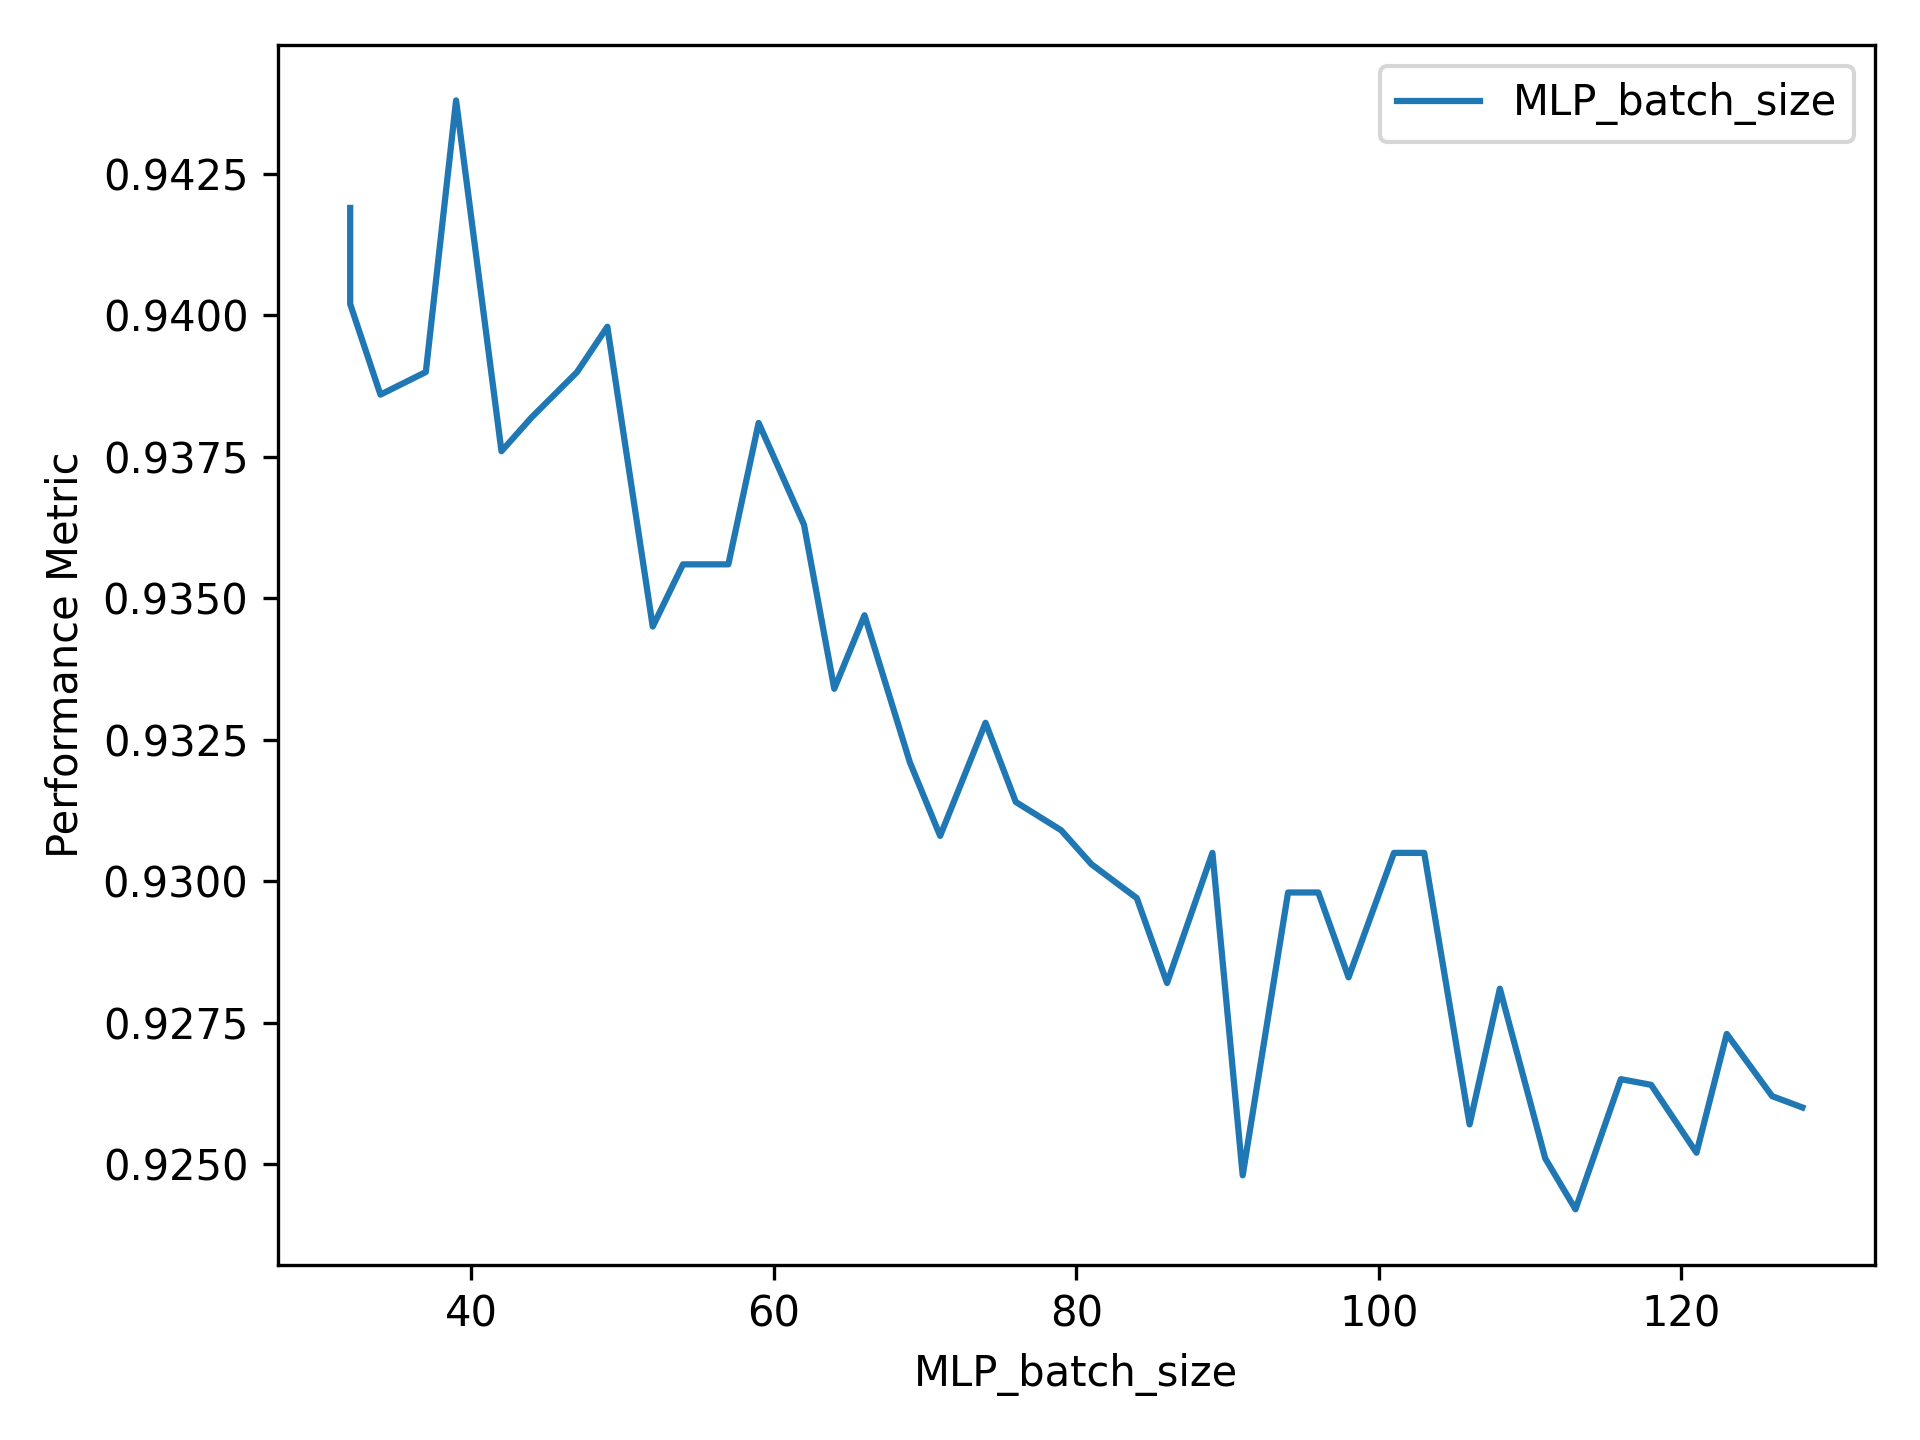
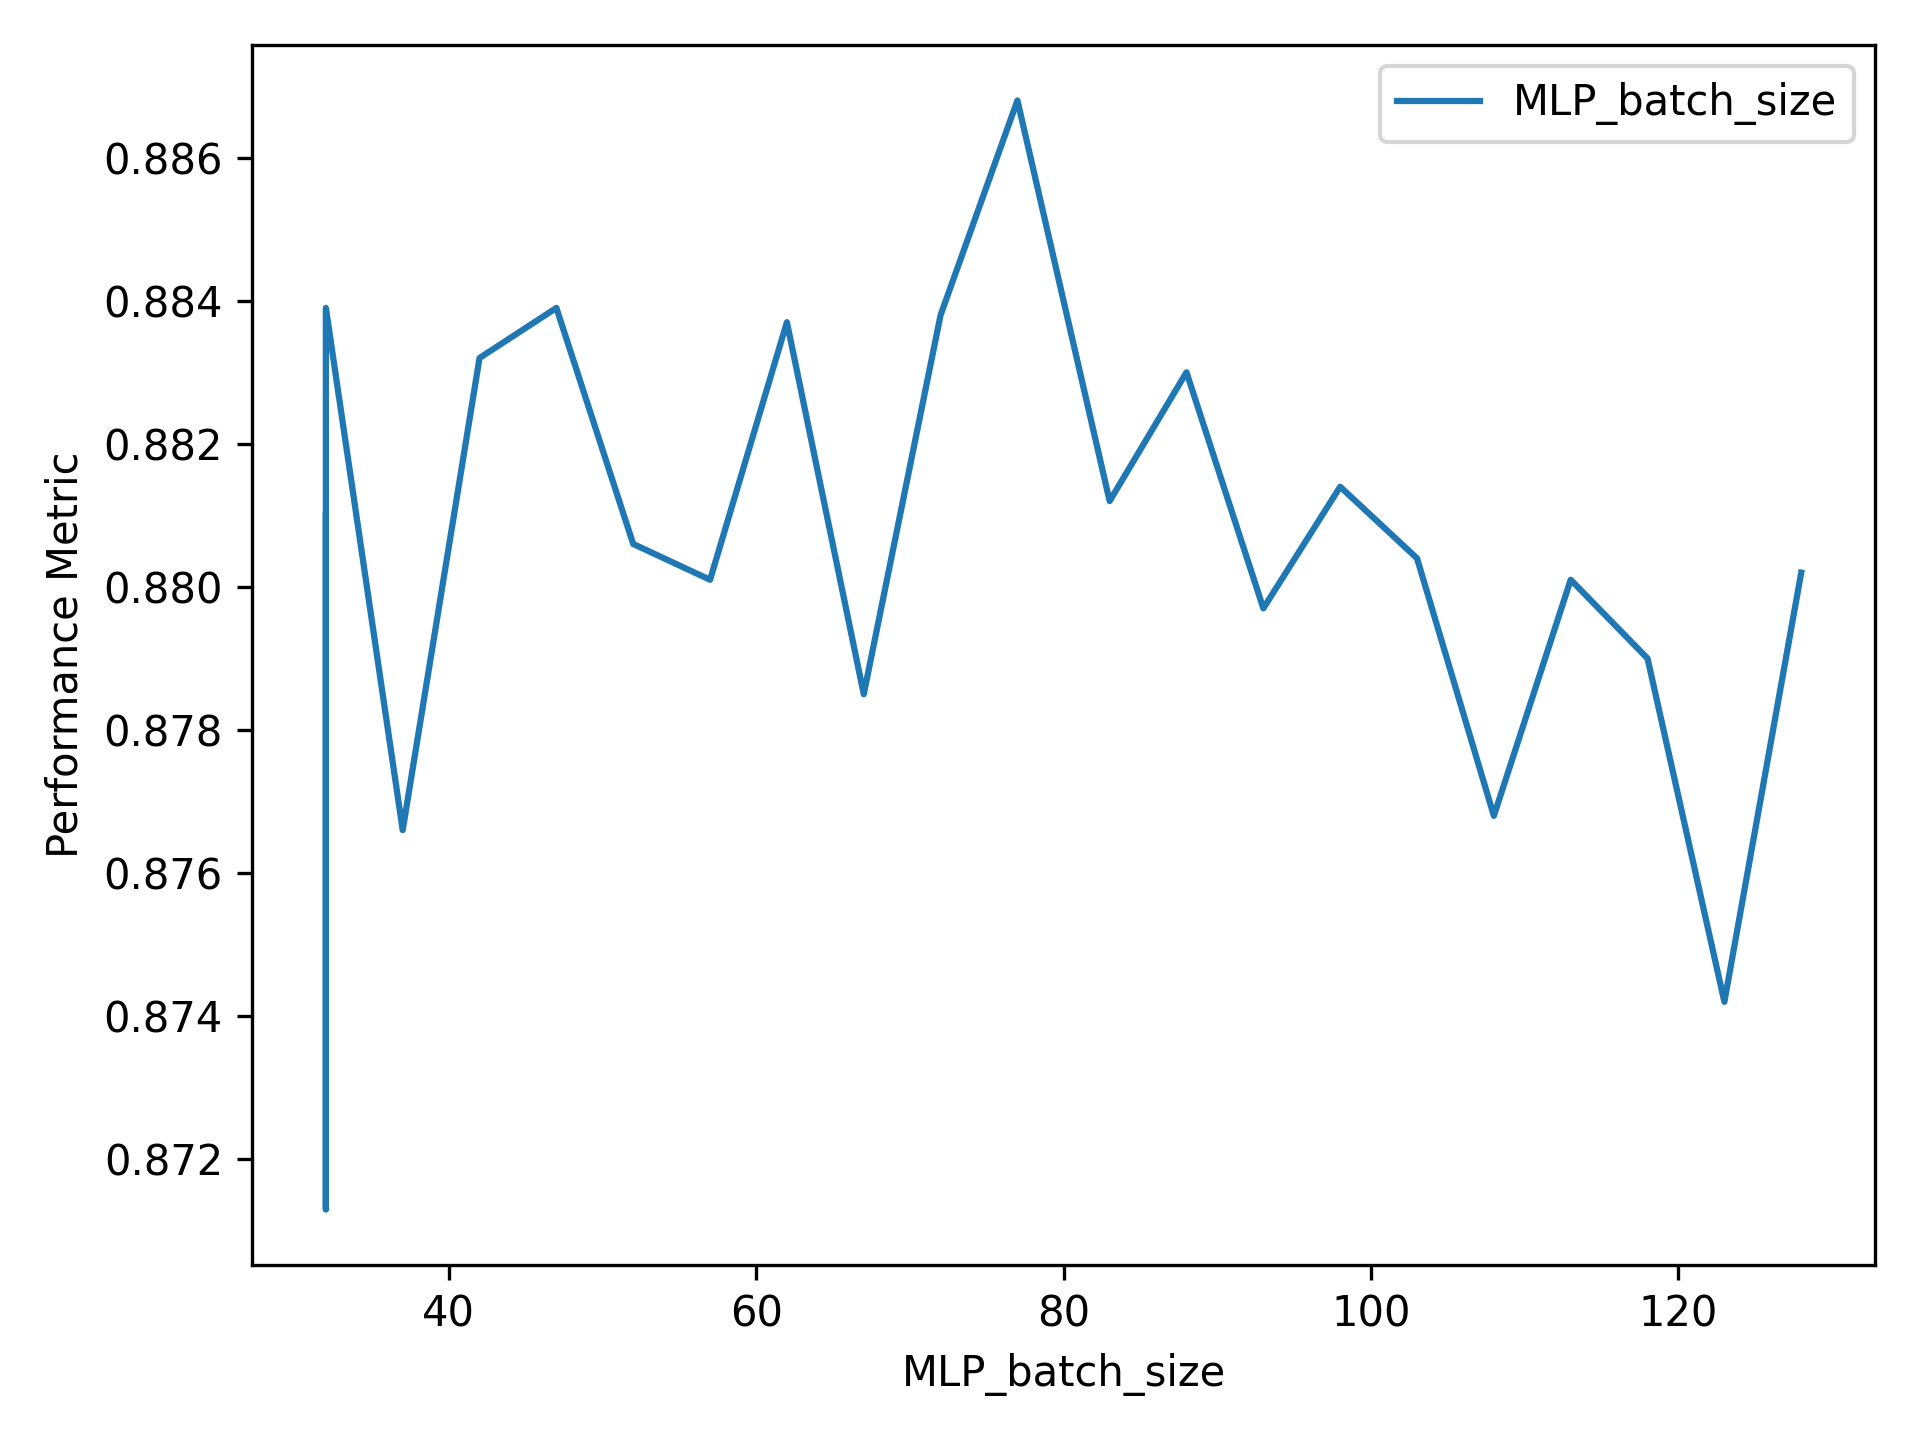
Testing different training data

diff --git a/src/paramhandler.py b/src/paramhandler.py
@@ -1,5 +1,6 @@
 import gc
 import json
+import time
 
 import numpy as np
 import tensorflow as tf
@@ -11,7 +12,7 @@ from models import Model, TrainData
 # Returns samples for a given parameter definition
 # Respects the type and removes duplicates
 # E.g. if type is int and we have samples in [1,3] then we return 1,2,3
-def get_param_samples(param_def, num_samples=40):
+def get_param_samples(param_def, num_samples=20):
     if param_def["type"] == "float":
         return np.linspace(param_def["min"], param_def["max"], num_samples).tolist()
     elif param_def["type"] == "int":
@@ -86,8 +87,14 @@ class ParamHandler:
                 print(
                     f"Running model with parameters {param_dict}. Progress: {len(results)}/{self.total_num_samples()}"
                 )
+
+                start_time = time.time()
                 result = model.evaluate(self.train_data)
                 results.append((result, param_dict))
+                elapsed_time = time.time() - start_time
+                print(
+                    f"Estimated time remaining: {elapsed_time * (self.total_num_samples() - len(results)) / 60} minutes"
+                )
 
                 del model
                 tf.keras.backend.clear_session()

diff --git a/src/models.py b/src/models.py
@@ -100,13 +100,10 @@ class MLP(Model):
     def load_data(
         input_path: str = None, target_path: str = None, test_size: float = 0.2
     ):
-        mnist = keras.datasets.mnist
-        (x_train, y_train), (x_test, y_test) = mnist.load_data()
-
-        # normalize the data
-        x_train = keras.utils.normalize(x_train, axis=1)
-        x_test = keras.utils.normalize(x_test, axis=1)
-
+        fashion_mnist = keras.datasets.fashion_mnist
+        (x_train, y_train), (x_test, y_test) = fashion_mnist.load_data()
+        x_train = x_train / 255.0
+        x_test = x_test / 255.0
         return TrainData(x_train, y_train, x_test, y_test)
 
     # Train the model and return the accuracy
@@ -114,7 +111,7 @@ class MLP(Model):
         self.model.fit(
             train_data.x_train,
             train_data.y_train,
-            epochs=20,
+            epochs=10,
             batch_size=self.hyperparameters["batch_size"],
             verbose=0,
         )
